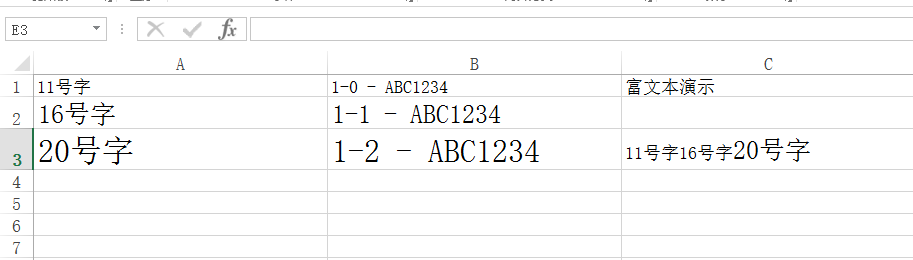
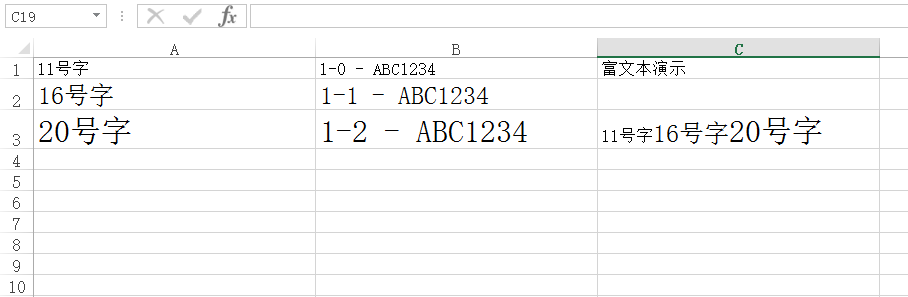
3.2.2.S44
1. 富文本样式的支持的说明

Changed region(s): [[0.0, 0.0, 1.0, 0.7385], [0.0, 0.7692, 1.0, 1.0]]

diff --git a/src/org/hy/common/report/JavaToExcel.java b/src/org/hy/common/report/JavaToExcel.java
@@ -2572,7 +2572,7 @@ public class JavaToExcel
                         
                         if ( v_TextLen > 0 )
                         {
-                            v_DataRichText.applyFont(v_FirstIndex, v_TextLen, (short)v_IDX);
+                            v_DataRichText.applyFont(v_FirstIndex, v_TextLen, v_DataFont);
                         }
                     }
                 }
